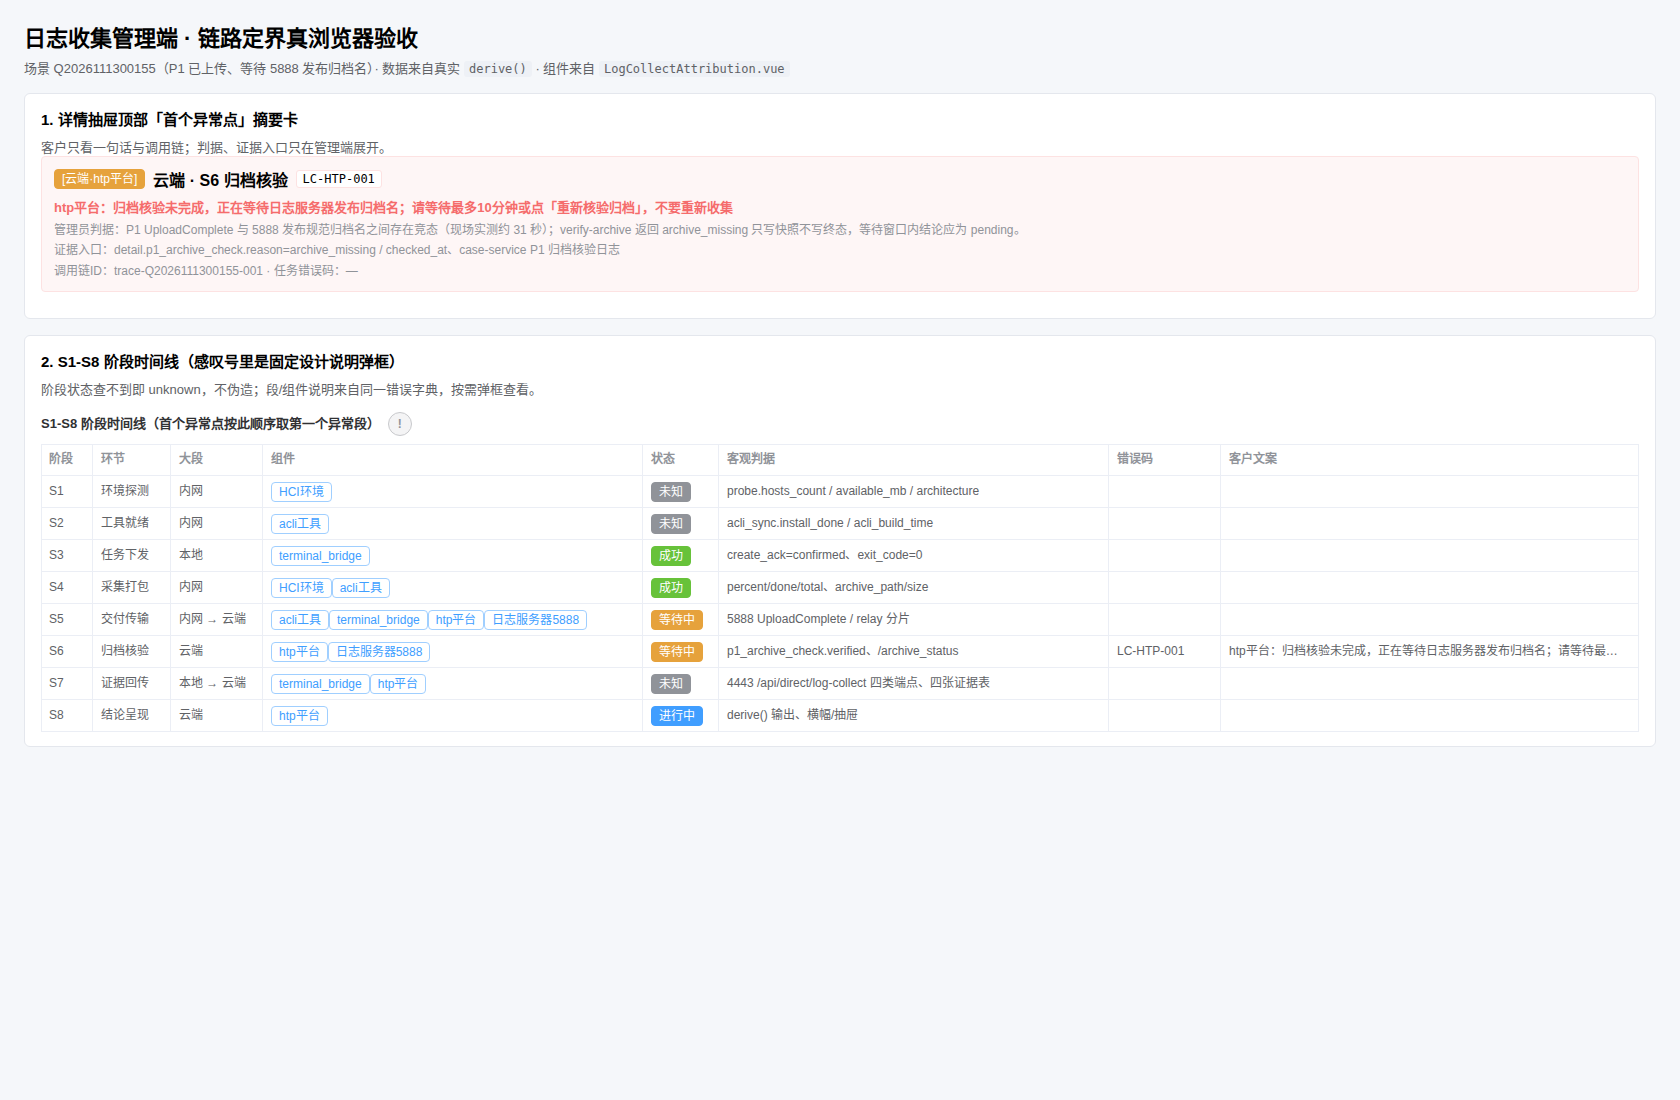
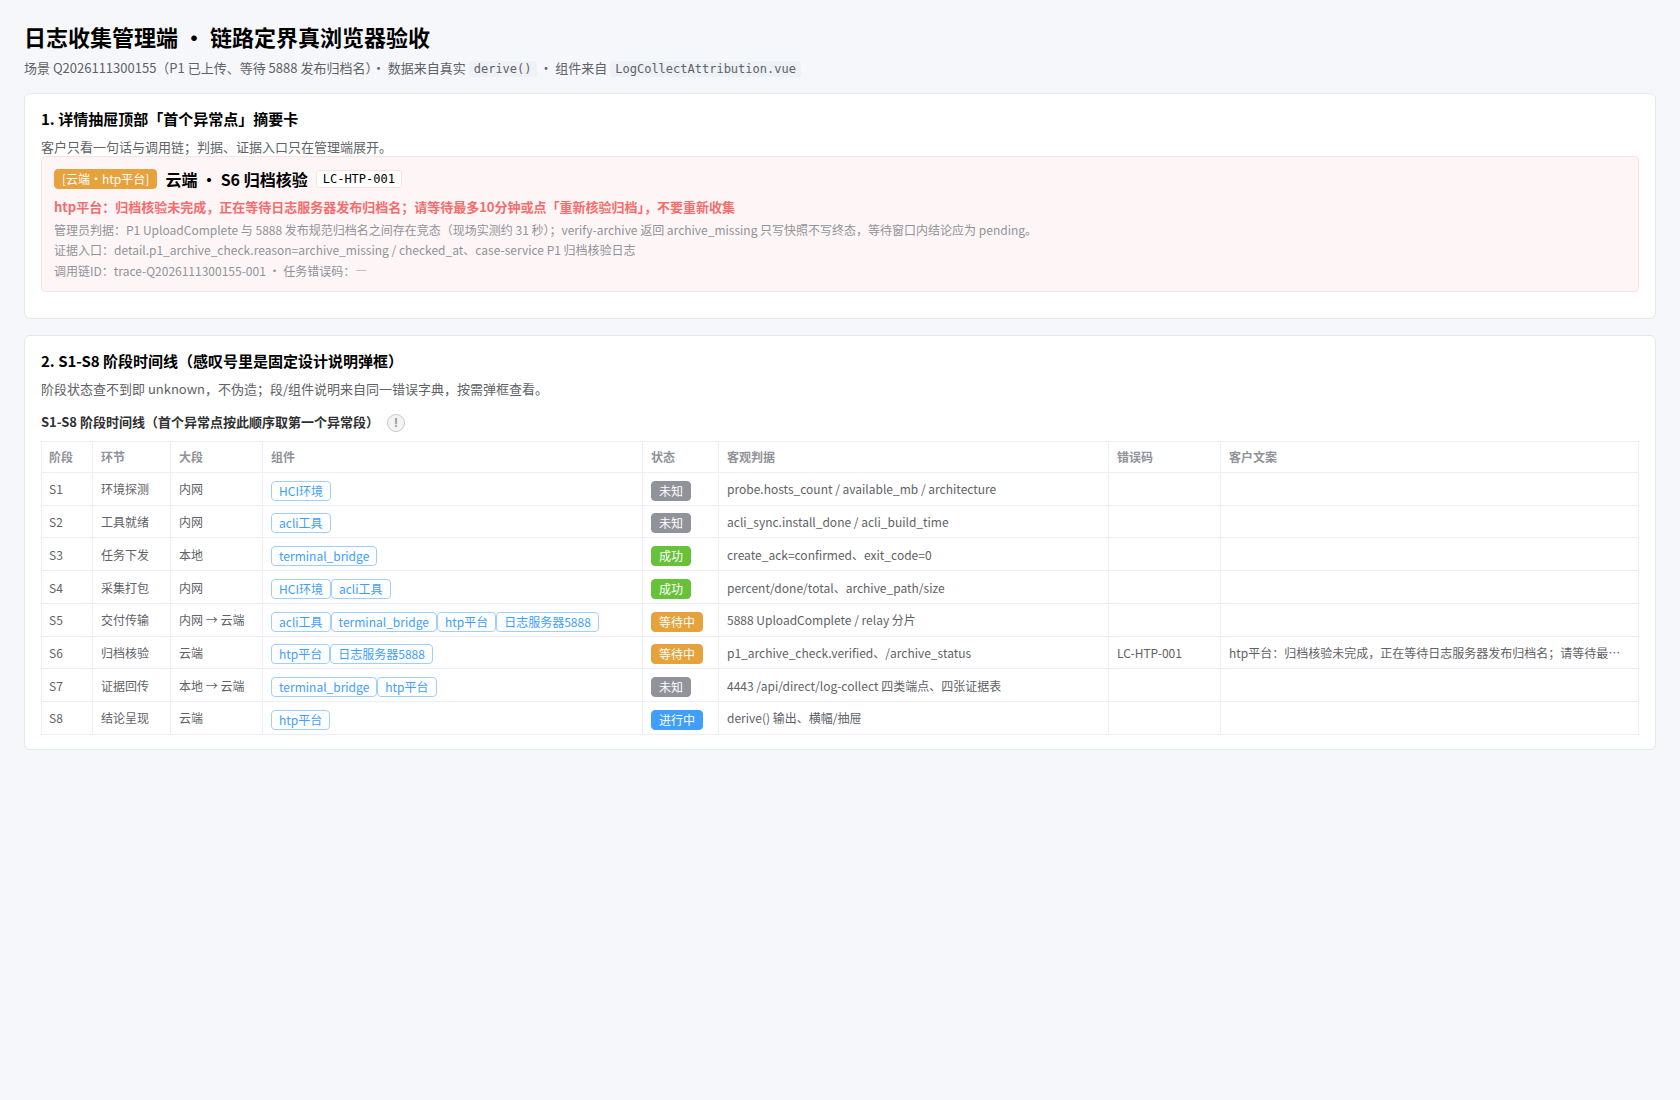
fix: 修复管理端链路定界弹框可读性与配对错位 (#1524)
[env:staging:aihci][agent:codebuddy]

diff --git a/frontend/admin/src/views/components/LogCollectAttribution.vue b/frontend/admin/src/views/components/LogCollectAttribution.vue
@@ -42,19 +42,22 @@ function statusHint(status: string): string {
   return status === 'unknown' ? '客观证据未上报，未知不等于失败；请先按证据入口核对。' : ''
 }
 
-/** 段与组件固定枚举；问题描述与建议动作取自错误字典，管理端不另写一份。 */
+/**
+ * 段与组件固定枚举；问题描述与建议动作取自错误字典，管理端不另写一份。
+ * 同一错误码的 problem/action 绑定成一个 pair：配对关系在数据层成立，
+ * 渲染层不依赖两个平行数组的索引对齐，也不依赖任何滚动联动。
+ */
 const componentRows = computed(() =>
   COMPONENT_ORDER.map((key) => {
     const item = COMPONENTS[key]
-    const cases = Object.values(FAULT_CATALOG).filter((entry) => entry.component === key)
+    const cases = Object.entries(FAULT_CATALOG).filter(([, entry]) => entry.component === key)
     return {
       key,
       scopeLabel: SCOPE_LABELS[item.scope as ScopeKey] ?? item.scope,
       label: item.label,
       tag: item.tag,
       duty: item.duty,
-      problems: cases.map((entry) => entry.problem),
-      actions: cases.map((entry) => entry.action),
+      pairs: cases.map(([code, entry]) => ({ code, problem: entry.problem, action: entry.action })),
     }
   }),
 )
@@ -133,7 +136,7 @@ const detailTraceId = computed(() => props.display?.trace_id ?? props.fallbackTr
     <el-dialog
       v-model="referenceVisible"
       title="三段五组件设计说明（固定契约，与当前工单无关）"
-      width="min(92vw, 860px)"
+      width="min(94vw, 1180px)"
       append-to-body
       class="attribution-reference"
       data-testid="attribution-reference"
@@ -149,18 +152,17 @@ const detailTraceId = computed(() => props.display?.trace_id ?? props.fallbackTr
           <code>{{ row.tag }}</code>
         </div>
         <div class="ref-line"><span class="ref-label">职责范围</span><span>{{ row.duty }}</span></div>
+        <!-- 一行一对：错误码 + 问题描述 + 建议动作共享同一行，滚动统一交给弹框正文。 -->
         <div class="ref-columns">
-          <div class="ref-line">
-            <span class="ref-label">问题描述</span>
-            <span class="ref-items">
-              <span v-for="(text, index) in row.problems" :key="index" class="ref-item">{{ text }}</span>
-            </span>
+          <div class="ref-pair-head">
+            <span>错误码</span>
+            <span>问题描述</span>
+            <span>建议动作</span>
           </div>
-          <div class="ref-line">
-            <span class="ref-label">建议动作</span>
-            <span class="ref-items">
-              <span v-for="(text, index) in row.actions" :key="index" class="ref-item">{{ text }}</span>
-            </span>
+          <div v-for="pair in row.pairs" :key="pair.code" class="ref-pair" data-testid="reference-pair">
+            <code class="ref-code">{{ pair.code }}</code>
+            <span class="ref-cell" data-label="问题描述">{{ pair.problem }}</span>
+            <span class="ref-cell" data-label="建议动作">{{ pair.action }}</span>
           </div>
         </div>
       </div>
@@ -214,8 +216,15 @@ const detailTraceId = computed(() => props.display?.trace_id ?? props.fallbackTr
   line-height: 1.6;
   color: #303133;
 }
-.section-help {
+/* 帮助按钮贴合标题字号：默认 circle 按钮直径远大于 13px 标题，视觉上像「大一号」。 */
+.section-help.el-button {
   flex: none;
+  width: 18px;
+  height: 18px;
+  min-height: 18px;
+  padding: 0;
+  font-size: 12px;
+  line-height: 16px;
   font-weight: 700;
 }
 .dialog-intro {
@@ -259,35 +268,56 @@ const detailTraceId = computed(() => props.display?.trace_id ?? props.fallbackTr
   color: var(--el-text-color-secondary);
 }
 .ref-columns {
+  margin-top: 6px;
+}
+.ref-pair-head,
+.ref-pair {
   display: grid;
-  grid-template-columns: repeat(2, minmax(0, 1fr));
+  grid-template-columns: 118px repeat(2, minmax(0, 1fr));
   gap: 12px;
+  align-items: start;
+  padding: 5px 0;
 }
-.ref-columns .ref-line {
-  grid-template-columns: 60px minmax(0, 1fr);
+.ref-pair-head {
+  border-top: 1px solid var(--el-border-color-lighter);
+  font-size: 12px;
+  color: var(--el-text-color-secondary);
 }
-.ref-items {
-  display: block;
-  max-height: 168px;
-  overflow-y: auto;
-  scrollbar-width: thin;
+.ref-pair {
+  border-top: 1px dashed var(--el-border-color-lighter);
+  font-size: 13px;
+  line-height: 1.6;
 }
-.ref-item {
-  display: block;
+.ref-code {
+  font-size: 11px;
+  color: var(--el-text-color-secondary);
+  word-break: break-all;
 }
-.ref-item + .ref-item {
-  margin-top: 2px;
+.ref-cell {
+  word-break: break-word;
+}
+.ref-cell::before {
+  display: none;
+  color: var(--el-text-color-secondary);
+  content: attr(data-label) '：';
 }
 @media (max-width: 760px) {
-  .ref-columns {
+  .ref-pair-head {
+    display: none;
+  }
+  .ref-pair {
     grid-template-columns: minmax(0, 1fr);
+    gap: 2px;
+  }
+  .ref-cell::before {
+    display: inline;
   }
 }
 </style>
 <style>
-/* el-dialog 挂在 body 上：限定弹框正文高度，避免五张卡片把页面拉到几千像素。 */
+/* el-dialog 挂在 body 上：整体滚动取代列内滚动，配对行不会被两个滚动条拆散。 */
 .attribution-reference .el-dialog__body {
-  max-height: 68vh;
+  max-height: 80vh;
   overflow-y: auto;
 }
 </style>

diff --git a/frontend/admin/src/views/components/__tests__/LogCollectAttribution.spec.ts b/frontend/admin/src/views/components/__tests__/LogCollectAttribution.spec.ts
@@ -3,8 +3,14 @@
  */
 import { flushPromises, mount } from '@vue/test-utils'
 import ElementPlus from 'element-plus'
-import { describe, expect, it } from 'vitest'
+import { afterEach, describe, expect, it } from 'vitest'
+import { COMPONENT_ORDER, FAULT_CATALOG } from '@hci/shared'
 import LogCollectAttribution from '../LogCollectAttribution.vue'
+
+// el-dialog 通过 teleport 挂到 body：清理残留，避免跨用例读到上一次弹框的节点。
+afterEach(() => {
+  document.querySelectorAll('.el-overlay').forEach((el) => el.remove())
+})
 
 const makeStage = (key: string, status: string, label: string) => ({
   key,
@@ -69,6 +75,33 @@ describe('LogCollectAttribution', () => {
     expect(body).toContain('三段五组件设计说明（固定契约，与当前工单无关）')
     expect(body).toContain('固定枚举')
     expect(document.querySelectorAll('.ref-card').length).toBe(5)
+    wrapper.unmount()
+  })
+
+  it('问题描述与建议动作按同一错误码成对呈现，不再各自滚动', async () => {
+    const wrapper = await mountPanel()
+    await wrapper.get('[data-testid="attribution-help"]').trigger('click')
+    await flushPromises()
+
+    // 双列独立滚动容器已移除，配对行不会再被两个滚动条拆散。
+    expect(document.querySelectorAll('.ref-items').length).toBe(0)
+
+    const pairRows = [...document.querySelectorAll<HTMLElement>('[data-testid="reference-pair"]')]
+    const catalog = new Map(Object.entries(FAULT_CATALOG))
+    const expectedCount = Object.values(FAULT_CATALOG).filter((entry) =>
+      (COMPONENT_ORDER as readonly string[]).includes(entry.component),
+    ).length
+    expect(pairRows.length).toBe(expectedCount)
+
+    for (const row of pairRows) {
+      expect(row.querySelector('[data-label="问题描述"]')).not.toBeNull()
+      expect(row.querySelector('[data-label="建议动作"]')).not.toBeNull()
+      const code = row.querySelector('.ref-code')?.textContent?.trim() ?? ''
+      const entry = catalog.get(code)
+      expect(entry, `配对行缺少契约错误码 ${code}`).toBeDefined()
+      expect(row.textContent).toContain(entry!.problem)
+      expect(row.textContent).toContain(entry!.action)
+    }
     wrapper.unmount()
   })
 })

diff --git a/docs/solution/events/2026-11-16-链路定界弹框可读性修复.md b/docs/solution/events/2026-11-16-链路定界弹框可读性修复.md
@@ -1,0 +1,49 @@
+# 2026-11-16 链路定界弹框可读性修复
+
+## 问题
+
+管理端日志收集详情的「S1-S8 阶段时间线」有三处 UI 缺陷：
+
+1. 标题右侧感叹号帮助按钮明显大于左侧标题文字。
+2. 点击感叹号后的「三段五组件设计说明」弹框局促，一屏显示内容过少。
+3. 弹框内「问题描述」与「建议动作」各自带滚动条，原本一一对应的关系完全丢失。
+
+## 第一性原理解构
+
+- **按钮过大**：不是字符字号问题，而是几何尺寸问题。`el-button circle size="small"` 的圆形包围盒远大于 `13px` 标题行高，视觉上自然"大一号"。
+- **弹框局促**：宽度上限 `min(92vw, 860px)` 与正文高度上限 `68vh` 双重压缩了可用空间。
+- **对应关系丢失**：`problems` / `actions` 是两个平行数组，分别渲染进 `max-height:168px; overflow-y:auto` 的独立容器。数据在契约层本按错误码一一对应，渲染层却拆成两个互不联动的滚动域，滚动任一列必然错位。
+
+## 对抗性审查
+
+| 候选方案 | 否决理由 |
+| --- | --- |
+| JS 同步两列滚动条 | 滚动条宽度、触控惯性、平滑滚动都会失步，靠事件联动维持对齐本质脆弱 |
+| 仅视觉对齐、保留双滚动 | 两侧文本行数不同仍会错位，未触及根因 |
+| 扩大热区的自定义图标 | 需要额外覆盖 Element Plus 内部变量，易受版本升级破坏 |
+
+采用的方案在数据层把同一错误码的 `problem` / `action` 绑定为单个 `pair`，渲染为同一行的三格（错误码 / 问题描述 / 建议动作），移除列级滚动，统一由弹框正文滚动。配对关系由数据结构保证，不依赖任何同步逻辑；窄屏下同一 `pair` 上下堆叠，配对语义仍成立。
+
+## 修改范围
+
+- `frontend/admin/src/views/components/LogCollectAttribution.vue`
+  - 帮助按钮直径收敛到 `18px`、字号 `12px`，与 `13px` 标题匹配。
+  - 弹框宽度上限提升到 `min(94vw, 1180px)`，正文高度上限提升到 `80vh`。
+  - `componentRows` 输出 `pairs`，模板按行渲染错误码/问题描述/建议动作，删除 `.ref-items` 列级滚动。
+- `frontend/admin/src/views/components/__tests__/LogCollectAttribution.spec.ts`
+  - 新增断言：无列级滚动容器；配对行数量等于契约条目数；每行错误码、问题描述、建议动作均来自同一契约条目。
+
+无后端、接口、契约生成物变更，客户侧不受影响。
+
+## 验证
+
+- 单测：组件 3/3 通过；admin 全量 25 文件 / 233 例通过。
+- 类型检查与生产构建：`pnpm build` 通过。
+- 真浏览器（playwright + chromium，1680x1100）：10/10 通过。关键实测值：
+  - 帮助按钮 `18x18px`，标题 `13px`；
+  - 弹框宽度 `1180px`，正文可视 `880px`、内容 `3766px`（整体滚动）；
+  - 91 个配对行三格全部同行对齐；整体滚到底后首行偏差 `0.0px`；
+  - 页面无 JS 异常。
+- 截图：
+  - `docs/solution/events/assets/2026-11-16-验收-管理端详情可读性-时间线.png`
+  - `docs/solution/events/assets/2026-11-16-验收-管理端详情可读性-设计说明弹框.png`
